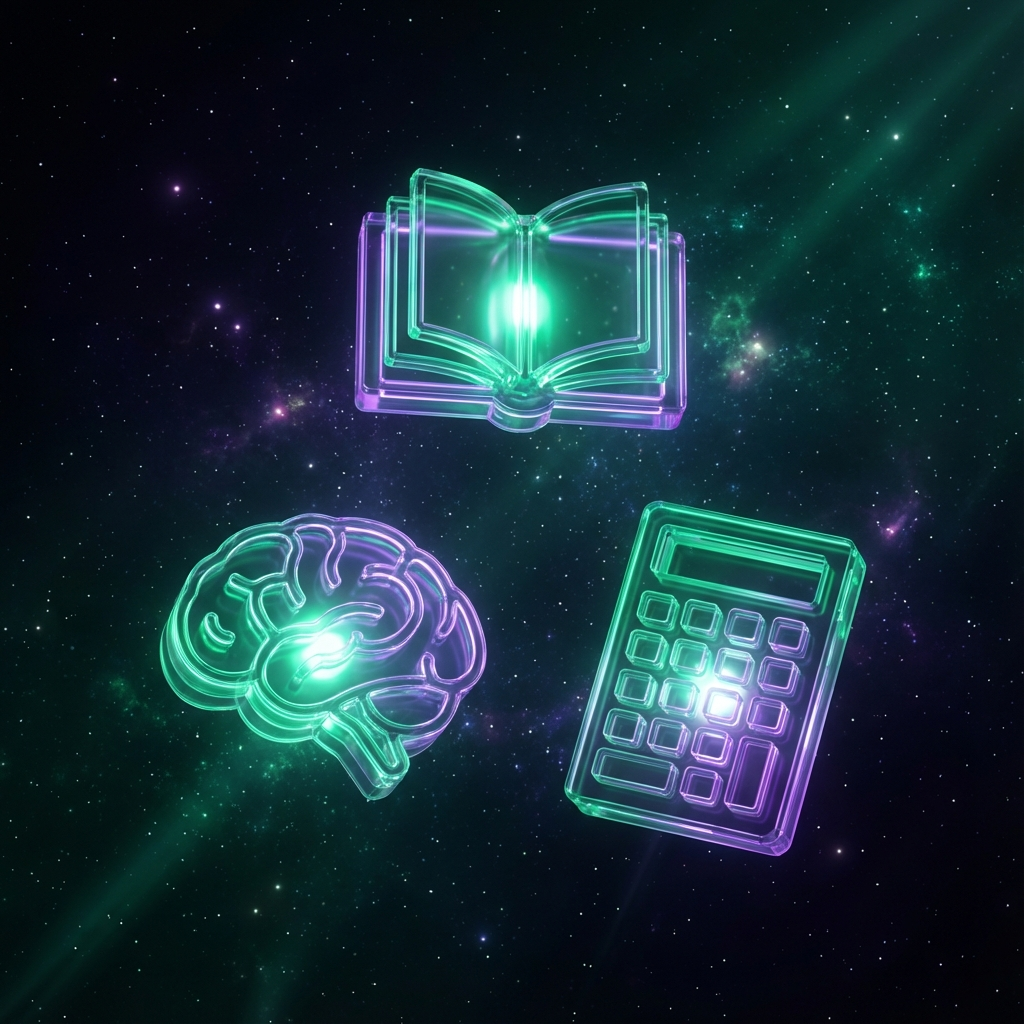
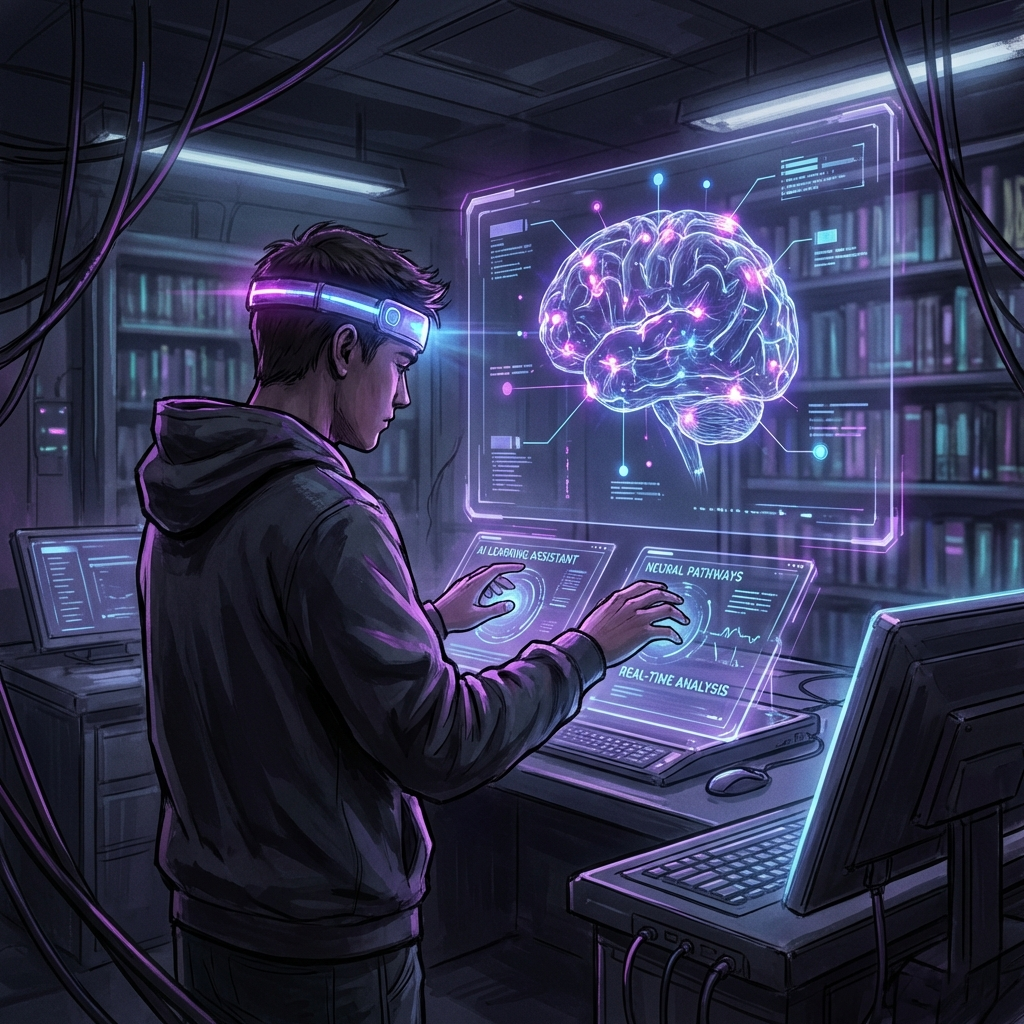
feat: upgrade blog images and optimize rendering

diff --git a/app/blog/[slug]/page.js b/app/blog/[slug]/page.js
@@ -85,6 +85,9 @@ export default function BlogPost({ params }) {
                                         src={post.image}
                                         alt={post.title}
                                         fill
+                                        quality={95}
+                                        priority
+                                        sizes="(max-width: 768px) 100vw, (max-width: 1200px) 90vw, 800px"
                                         className="object-cover group-hover:scale-105 transition-transform duration-700"
                                     />
                                     <div className="absolute inset-0 bg-gradient-to-t from-slate-950 via-transparent to-transparent opacity-60"></div>
